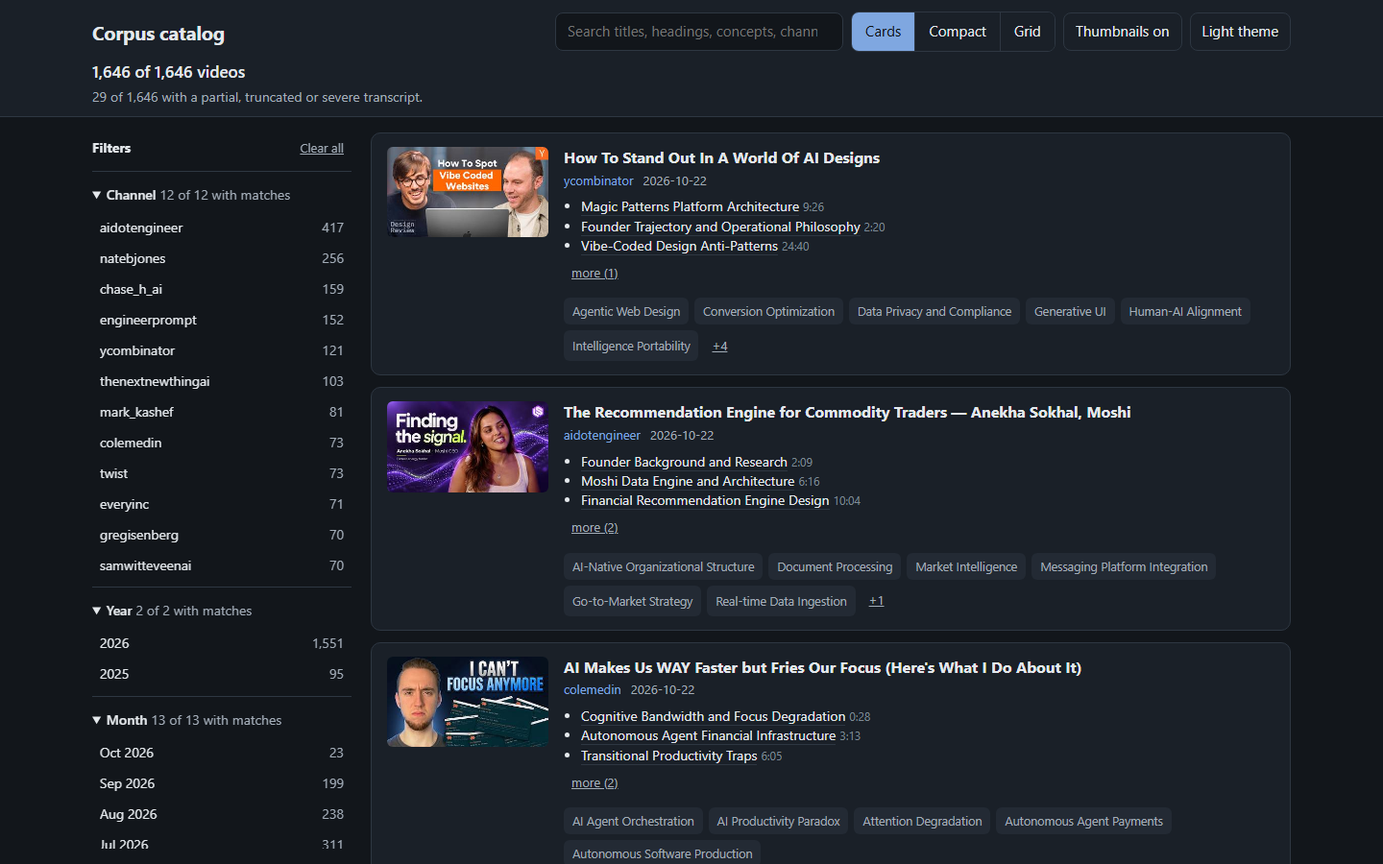
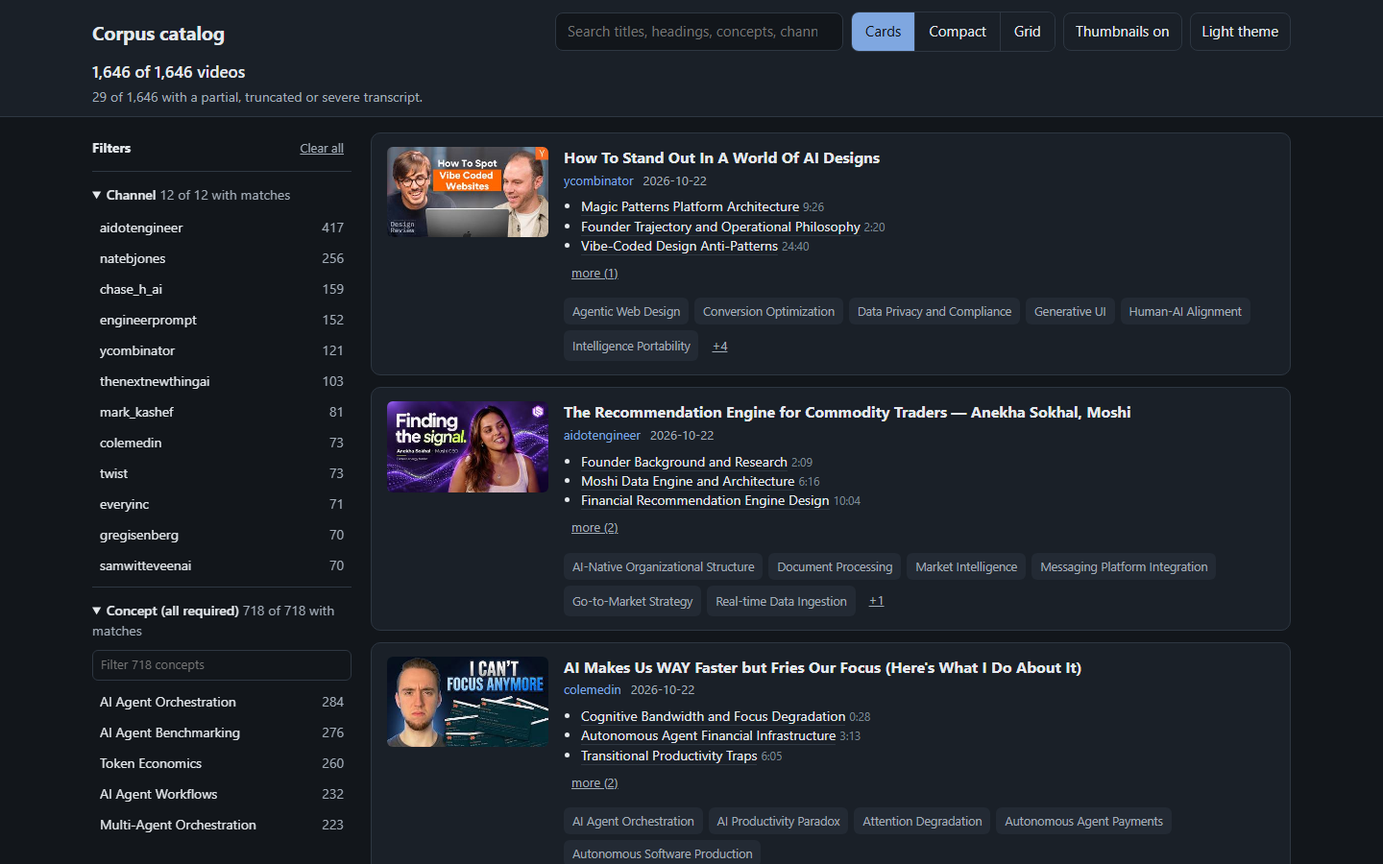
feat(atlas): concept facet in the catalog rail, plain transcript-quality labels (#267) (#268)
* feat(atlas): concept facet in the catalog rail, plain transcript-quality labels (#267)

The rail gains a Concept facet right after Channel: concepts by video
count with cross-filter counts, top 15 with "show all", a filter box for
the long tail (718 concepts in the public demo), and the existing rule
that every selected concept is required. Zero-count concepts and quality
values are hidden unless selected. Transcript quality is displayed in
plain words ("no transcript", "not assessed") while the data values stay
unchanged. The separate selected-concepts block is gone: the facet shows
selections pressed.

Browser smoke: a rail concept narrows the list, the filter box narrows the
facet and keeps focus, quality labels are plain and zero counts hidden.
Demo page re-rendered; suite 3,442 passed.

* docs(atlas): say where the catalog's deep-link timestamps come from (#267)

They are the mind map's own timestamps, written by Gemini while watching
the video, so they exist even for videos without a transcript.

---------

Changed region(s): [[0.0625, 0.6844, 0.25, 0.9956], [0.2188, 0.84, 0.25, 0.9644], [0.2188, 0.7778, 0.25, 0.8089]]

diff --git a/examples/catalog/catalog.html b/examples/catalog/catalog.html
@@ -79,6 +79,8 @@
   .fv.zero { opacity: 0.45; }
   .fv .name { overflow-wrap: anywhere; }
   .fv.special .name { font-style: italic; }
+  .facet-filter { width: 100%; min-height: 32px; margin: 2px 0 6px; padding: 4px 8px; border: 1px solid var(--line); border-radius: 6px; background: var(--ground); color: var(--ink); font: inherit; font-size: 13px; }
+  .facet-filter:focus { outline: 2px solid var(--accent); outline-offset: 1px; }
   .link-btn { border: 0; background: none; color: var(--muted); text-decoration: underline; cursor: pointer; padding: 6px 8px; min-height: 32px; font-size: 13px; }
   .active-chips { display: flex; flex-wrap: wrap; gap: 6px; padding: 4px 0 8px; }
   .achip { display: inline-flex; align-items: center; gap: 4px; padding: 2px 4px 2px 10px; border-radius: 999px; background: var(--accent-soft); box-shadow: inset 0 0 0 1px var(--accent); font-size: 13px; }
@@ -163,7 +165,7 @@
     .rail { position: fixed; top: 0; left: 0; bottom: 0; width: min(86vw, 340px); max-height: none; z-index: 40; background: var(--surface); padding: 16px; transform: translateX(-105%); transition: transform 0.18s ease; border-right: 1px solid var(--line); }
     .rail.open { transform: none; }
     .backdrop.open { display: block; position: fixed; inset: 0; background: rgba(0, 0, 0, 0.4); z-index: 30; }
-    .fv, .link-btn, .chip { min-height: 40px; }
+    .fv, .link-btn, .chip, .facet-filter { min-height: 40px; }
     .card.has-thumb { grid-template-columns: 112px minmax(0, 1fr); gap: 0 12px; }
     .thumb { width: 112px; grid-row: 1 / span 2; }
     .card.has-thumb > :not(.thumb):not(h3):not(.meta) { grid-column: 1 / -1; }
@@ -348,22 +350,28 @@
     return c;
   }
   function yesNo(v) { return v === "yes" ? "Yes" : "No"; }
+  // Display words for the transcript_quality values; the values themselves never change.
+  var QUALITY_LABELS = { none: "no transcript", unknown: "not assessed" };
+  function qualityLabel(q) { return QUALITY_LABELS[q] || q; }
 
   var D = {
     channel: makeDim("ch", "Channel", "one"),
     topic: makeDim("tp", "Topic", "any", function (v) { return v === UNTHREADED ? "Unthreaded" : v; }),
     year: makeDim("yr", "Year", "one", function (v) { return v || "No date"; }),
     month: makeDim("mo", "Month", "one", monthLabel),
-    quality: makeDim("ql", "Transcript quality", "one"),
+    quality: makeDim("ql", "Transcript quality", "one", qualityLabel),
     briefing: makeDim("br", "Already in a briefing", "one", yesNo),
     wiki: makeDim("wk", "Has wiki page", "one", yesNo),
-    concept: makeDim("cn", "Concept", "all", labelOf)
+    concept: makeDim("cn", "Concept (all required)", "all", labelOf)
   };
   var DIMS = [D.channel, D.topic, D.year, D.month, D.quality, D.briefing, D.wiki, D.concept];
   var hasTopics = rows.some(function (r) { return r.topics && r.topics.length; });
   var hasBriefings = rows.some(function (r) { return r.in_briefings; });
   var hasWiki = rows.some(function (r) { var w = r.wiki || {}; return w.creator || (w.concepts && w.concepts.length); });
-  var RAIL_DIMS = [D.channel].concat(hasTopics ? [D.topic] : [], [D.year, D.month, D.quality], hasBriefings ? [D.briefing] : [], hasWiki ? [D.wiki] : []);
+  var RAIL_DIMS = [D.channel].concat(hasTopics ? [D.topic] : [], [D.concept, D.year, D.month, D.quality], hasBriefings ? [D.briefing] : [], hasWiki ? [D.wiki] : []);
+  // Facets whose zero-count values are noise rather than a choice: hidden unless selected.
+  var HIDE_ZERO = [D.concept, D.quality];
+  var FILTERABLE = [D.concept];
 
   QUALITY.forEach(function (q) { codeOf(D.quality, q); });
   ["yes", "no"].forEach(function (v) { codeOf(D.briefing, v); codeOf(D.wiki, v); });
@@ -542,12 +550,13 @@
   }
 
   // ---------- rail ----------
-  var TOP = { ch: 15, tp: 15, mo: 12 };
+  var TOP = { ch: 15, tp: 15, cn: 15, mo: 12 };
+  var lastRes = null;
   function orderedCodes(d, counts) {
     var codes = d.values.map(function (_, c) { return c; });
     if (d === D.year || d === D.month) {
       codes.sort(function (a, b) { var va = d.values[a], vb = d.values[b]; if (!va) return 1; if (!vb) return -1; return va < vb ? 1 : -1; });
-    } else if (d === D.channel || d === D.topic) {
+    } else if (d === D.channel || d === D.topic || d === D.concept) {
       codes.sort(function (a, b) {
         if (d === D.topic) { if (a === unthreadedCode) return 1; if (b === unthreadedCode) return -1; }
         return counts[b] - counts[a] || (d.values[a] < d.values[b] ? -1 : 1);
@@ -556,21 +565,13 @@
     return codes;
   }
   function renderRail(res) {
+    lastRes = res;
     var host = document.getElementById("facets");
     clear(host);
-    if (D.concept.sel.size) {
-      var sec = el("div", { class: "facet" });
-      sec.appendChild(el("div", { class: "rail-head" })).appendChild(el("strong", null, "Concepts (all required)"));
-      var chips = sec.appendChild(el("div", { class: "active-chips" }));
-      D.concept.sel.forEach(function (c) {
-        var chip = chips.appendChild(el("span", { class: "achip" }, D.concept.display(D.concept.values[c])));
-        chip.appendChild(el("button", { type: "button", "data-remove-cn": c, "aria-label": "Remove concept filter " + D.concept.display(D.concept.values[c]) }, "×"));
-      });
-      host.appendChild(sec);
-    }
     RAIL_DIMS.forEach(function (d) {
       var counts = res.counts[DIMS.indexOf(d)];
       var codes = orderedCodes(d, counts);
+      if (HIDE_ZERO.indexOf(d) >= 0) codes = codes.filter(function (c) { return counts[c] > 0 || d.sel.has(c); });
       var nonZero = 0;
       codes.forEach(function (c) { if (counts[c] > 0) nonZero++; });
       var det = el("details", { class: "facet", "data-dim": d.key, open: d.open ? "" : null });
@@ -579,6 +580,14 @@
       if (d.sel.size) sub += ", " + d.sel.size + " selected";
       sum.appendChild(el("span", { class: "sub" }, sub));
       var limit = TOP[d.key];
+      var needle = (d.filter || "").trim().toLowerCase();
+      if (FILTERABLE.indexOf(d) >= 0) {
+        det.appendChild(el("input", { type: "search", class: "facet-filter", "data-filter": d.key, placeholder: "Filter " + fmt(codes.length) + " concepts", "aria-label": "Filter concepts", value: d.filter || "", autocomplete: "off" }));
+        if (needle) {
+          codes = codes.filter(function (c) { return d.sel.has(c) || String(d.display(d.values[c])).toLowerCase().indexOf(needle) >= 0; });
+          limit = 0;
+        }
+      }
       var ul = det.appendChild(el("ul"));
       var shown = 0;
       codes.forEach(function (c, idx) {
@@ -590,6 +599,7 @@
         b.appendChild(el("span", { class: "n" }, fmt(counts[c])));
         ul.appendChild(el("li")).appendChild(b);
       });
+      if (needle && !codes.length) ul.appendChild(el("li", { class: "sub" }, "No concept matches."));
       if (limit && codes.length > limit) {
         det.appendChild(el("button", { type: "button", class: "link-btn", "data-expand": d.key }, d.expanded ? "Show top " + limit : "Show all " + fmt(codes.length)));
       }
@@ -602,7 +612,7 @@
 
   // ---------- list ----------
   // "complete" is the normal state and stays silent; only the exceptions get a badge.
-  function qualityBadge(q) { return q === "complete" ? null : el("span", { class: "badge q-" + q, title: "Transcript quality" }, q); }
+  function qualityBadge(q) { return q === "complete" ? null : el("span", { class: "badge q-" + q, title: "Transcript quality" }, qualityLabel(q)); }
   function appendBadge(host, q) { var b = qualityBadge(q); if (b) host.appendChild(b); }
   function renderCard(i) {
     var r = rows[i];
@@ -857,6 +867,15 @@
   backdrop.addEventListener("click", function () { setDrawer(false); });
   document.addEventListener("keydown", function (ev) { if (ev.key === "Escape") setDrawer(false); });
 
+  rail.addEventListener("input", function (ev) {
+    var key = ev.target.getAttribute && ev.target.getAttribute("data-filter");
+    var d = key && dimByKey(key);
+    if (!d || !lastRes) return;
+    d.filter = ev.target.value;
+    renderRail(lastRes);
+    var box = rail.querySelector('[data-filter="' + key + '"]');
+    if (box) { box.focus(); box.setSelectionRange(box.value.length, box.value.length); }
+  });
   rail.addEventListener("toggle", function (ev) {
     var d = dimByKey(ev.target.getAttribute && ev.target.getAttribute("data-dim"));
     if (d) d.open = ev.target.open;

diff --git a/scripts/atlas_catalog_template.html b/scripts/atlas_catalog_template.html
@@ -79,6 +79,8 @@
   .fv.zero { opacity: 0.45; }
   .fv .name { overflow-wrap: anywhere; }
   .fv.special .name { font-style: italic; }
+  .facet-filter { width: 100%; min-height: 32px; margin: 2px 0 6px; padding: 4px 8px; border: 1px solid var(--line); border-radius: 6px; background: var(--ground); color: var(--ink); font: inherit; font-size: 13px; }
+  .facet-filter:focus { outline: 2px solid var(--accent); outline-offset: 1px; }
   .link-btn { border: 0; background: none; color: var(--muted); text-decoration: underline; cursor: pointer; padding: 6px 8px; min-height: 32px; font-size: 13px; }
   .active-chips { display: flex; flex-wrap: wrap; gap: 6px; padding: 4px 0 8px; }
   .achip { display: inline-flex; align-items: center; gap: 4px; padding: 2px 4px 2px 10px; border-radius: 999px; background: var(--accent-soft); box-shadow: inset 0 0 0 1px var(--accent); font-size: 13px; }
@@ -163,7 +165,7 @@
     .rail { position: fixed; top: 0; left: 0; bottom: 0; width: min(86vw, 340px); max-height: none; z-index: 40; background: var(--surface); padding: 16px; transform: translateX(-105%); transition: transform 0.18s ease; border-right: 1px solid var(--line); }
     .rail.open { transform: none; }
     .backdrop.open { display: block; position: fixed; inset: 0; background: rgba(0, 0, 0, 0.4); z-index: 30; }
-    .fv, .link-btn, .chip { min-height: 40px; }
+    .fv, .link-btn, .chip, .facet-filter { min-height: 40px; }
     .card.has-thumb { grid-template-columns: 112px minmax(0, 1fr); gap: 0 12px; }
     .thumb { width: 112px; grid-row: 1 / span 2; }
     .card.has-thumb > :not(.thumb):not(h3):not(.meta) { grid-column: 1 / -1; }
@@ -348,22 +350,28 @@
     return c;
   }
   function yesNo(v) { return v === "yes" ? "Yes" : "No"; }
+  // Display words for the transcript_quality values; the values themselves never change.
+  var QUALITY_LABELS = { none: "no transcript", unknown: "not assessed" };
+  function qualityLabel(q) { return QUALITY_LABELS[q] || q; }
 
   var D = {
     channel: makeDim("ch", "Channel", "one"),
     topic: makeDim("tp", "Topic", "any", function (v) { return v === UNTHREADED ? "Unthreaded" : v; }),
     year: makeDim("yr", "Year", "one", function (v) { return v || "No date"; }),
     month: makeDim("mo", "Month", "one", monthLabel),
-    quality: makeDim("ql", "Transcript quality", "one"),
+    quality: makeDim("ql", "Transcript quality", "one", qualityLabel),
     briefing: makeDim("br", "Already in a briefing", "one", yesNo),
     wiki: makeDim("wk", "Has wiki page", "one", yesNo),
-    concept: makeDim("cn", "Concept", "all", labelOf)
+    concept: makeDim("cn", "Concept (all required)", "all", labelOf)
   };
   var DIMS = [D.channel, D.topic, D.year, D.month, D.quality, D.briefing, D.wiki, D.concept];
   var hasTopics = rows.some(function (r) { return r.topics && r.topics.length; });
   var hasBriefings = rows.some(function (r) { return r.in_briefings; });
   var hasWiki = rows.some(function (r) { var w = r.wiki || {}; return w.creator || (w.concepts && w.concepts.length); });
-  var RAIL_DIMS = [D.channel].concat(hasTopics ? [D.topic] : [], [D.year, D.month, D.quality], hasBriefings ? [D.briefing] : [], hasWiki ? [D.wiki] : []);
+  var RAIL_DIMS = [D.channel].concat(hasTopics ? [D.topic] : [], [D.concept, D.year, D.month, D.quality], hasBriefings ? [D.briefing] : [], hasWiki ? [D.wiki] : []);
+  // Facets whose zero-count values are noise rather than a choice: hidden unless selected.
+  var HIDE_ZERO = [D.concept, D.quality];
+  var FILTERABLE = [D.concept];
 
   QUALITY.forEach(function (q) { codeOf(D.quality, q); });
   ["yes", "no"].forEach(function (v) { codeOf(D.briefing, v); codeOf(D.wiki, v); });
@@ -542,12 +550,13 @@
   }
 
   // ---------- rail ----------
-  var TOP = { ch: 15, tp: 15, mo: 12 };
+  var TOP = { ch: 15, tp: 15, cn: 15, mo: 12 };
+  var lastRes = null;
   function orderedCodes(d, counts) {
     var codes = d.values.map(function (_, c) { return c; });
     if (d === D.year || d === D.month) {
       codes.sort(function (a, b) { var va = d.values[a], vb = d.values[b]; if (!va) return 1; if (!vb) return -1; return va < vb ? 1 : -1; });
-    } else if (d === D.channel || d === D.topic) {
+    } else if (d === D.channel || d === D.topic || d === D.concept) {
       codes.sort(function (a, b) {
         if (d === D.topic) { if (a === unthreadedCode) return 1; if (b === unthreadedCode) return -1; }
         return counts[b] - counts[a] || (d.values[a] < d.values[b] ? -1 : 1);
@@ -556,21 +565,13 @@
     return codes;
   }
   function renderRail(res) {
+    lastRes = res;
     var host = document.getElementById("facets");
     clear(host);
-    if (D.concept.sel.size) {
-      var sec = el("div", { class: "facet" });
-      sec.appendChild(el("div", { class: "rail-head" })).appendChild(el("strong", null, "Concepts (all required)"));
-      var chips = sec.appendChild(el("div", { class: "active-chips" }));
-      D.concept.sel.forEach(function (c) {
-        var chip = chips.appendChild(el("span", { class: "achip" }, D.concept.display(D.concept.values[c])));
-        chip.appendChild(el("button", { type: "button", "data-remove-cn": c, "aria-label": "Remove concept filter " + D.concept.display(D.concept.values[c]) }, "×"));
-      });
-      host.appendChild(sec);
-    }
     RAIL_DIMS.forEach(function (d) {
       var counts = res.counts[DIMS.indexOf(d)];
       var codes = orderedCodes(d, counts);
+      if (HIDE_ZERO.indexOf(d) >= 0) codes = codes.filter(function (c) { return counts[c] > 0 || d.sel.has(c); });
       var nonZero = 0;
       codes.forEach(function (c) { if (counts[c] > 0) nonZero++; });
       var det = el("details", { class: "facet", "data-dim": d.key, open: d.open ? "" : null });
@@ -579,6 +580,14 @@
       if (d.sel.size) sub += ", " + d.sel.size + " selected";
       sum.appendChild(el("span", { class: "sub" }, sub));
       var limit = TOP[d.key];
+      var needle = (d.filter || "").trim().toLowerCase();
+      if (FILTERABLE.indexOf(d) >= 0) {
+        det.appendChild(el("input", { type: "search", class: "facet-filter", "data-filter": d.key, placeholder: "Filter " + fmt(codes.length) + " concepts", "aria-label": "Filter concepts", value: d.filter || "", autocomplete: "off" }));
+        if (needle) {
+          codes = codes.filter(function (c) { return d.sel.has(c) || String(d.display(d.values[c])).toLowerCase().indexOf(needle) >= 0; });
+          limit = 0;
+        }
+      }
       var ul = det.appendChild(el("ul"));
       var shown = 0;
       codes.forEach(function (c, idx) {
@@ -590,6 +599,7 @@
         b.appendChild(el("span", { class: "n" }, fmt(counts[c])));
         ul.appendChild(el("li")).appendChild(b);
       });
+      if (needle && !codes.length) ul.appendChild(el("li", { class: "sub" }, "No concept matches."));
       if (limit && codes.length > limit) {
         det.appendChild(el("button", { type: "button", class: "link-btn", "data-expand": d.key }, d.expanded ? "Show top " + limit : "Show all " + fmt(codes.length)));
       }
@@ -602,7 +612,7 @@
 
   // ---------- list ----------
   // "complete" is the normal state and stays silent; only the exceptions get a badge.
-  function qualityBadge(q) { return q === "complete" ? null : el("span", { class: "badge q-" + q, title: "Transcript quality" }, q); }
+  function qualityBadge(q) { return q === "complete" ? null : el("span", { class: "badge q-" + q, title: "Transcript quality" }, qualityLabel(q)); }
   function appendBadge(host, q) { var b = qualityBadge(q); if (b) host.appendChild(b); }
   function renderCard(i) {
     var r = rows[i];
@@ -857,6 +867,15 @@
   backdrop.addEventListener("click", function () { setDrawer(false); });
   document.addEventListener("keydown", function (ev) { if (ev.key === "Escape") setDrawer(false); });
 
+  rail.addEventListener("input", function (ev) {
+    var key = ev.target.getAttribute && ev.target.getAttribute("data-filter");
+    var d = key && dimByKey(key);
+    if (!d || !lastRes) return;
+    d.filter = ev.target.value;
+    renderRail(lastRes);
+    var box = rail.querySelector('[data-filter="' + key + '"]');
+    if (box) { box.focus(); box.setSelectionRange(box.value.length, box.value.length); }
+  });
   rail.addEventListener("toggle", function (ev) {
     var d = dimByKey(ev.target.getAttribute && ev.target.getAttribute("data-dim"));
     if (d) d.open = ev.target.open;

diff --git a/tests/test_atlas_render_browser.py b/tests/test_atlas_render_browser.py
@@ -37,14 +37,14 @@ def smoke_atlas() -> dict:
                 "published": "2026-12-31" if i == 0 else f"2026-{(i % 12) + 1:02d}-15",
                 "duration_seconds": 600 + i,
                 "url": f"https://www.youtube.com/watch?v={vid}",
-                "transcript_quality": "complete",
+                "transcript_quality": {1: "unknown", 2: "none"}.get(i, "complete"),
                 "transcript_flag_count": 0,
                 "synopsis": ["Same label", "Same label", "Other"],
                 "deep_links": [
                     {"label": "Same label", "seconds": 10, "url": f"https://www.youtube.com/watch?v={vid}&t=10"},
                     {"label": "Same label", "seconds": 20, "url": f"https://www.youtube.com/watch?v={vid}&t=20"},
                 ],
-                "concept_ids": ["dom.c1"],
+                "concept_ids": ["dom.c1", "dom.c2"] if i % 2 == 0 else ["dom.c1"],
                 "topics": ["sales"] if i % 3 == 0 else [],
                 "in_briefings": False,
                 "briefing_count": 0,
@@ -64,7 +64,7 @@ def smoke_atlas() -> dict:
             "topics": {"sales": ROWS // 3},
             "unthreaded": 0,
         },
-        "concepts": {"dom.c1": "Concept one"},
+        "concepts": {"dom.c1": "Concept one", "dom.c2": "Concept two"},
         "rows": rows,
     }
 
@@ -118,10 +118,10 @@ def test_a_facet_click_in_compact_keeps_the_compact_page_size(page):
     page.click("#view-compact")
     page.wait_for_selector("#toc tbody tr")
     assert page.evaluate("document.querySelectorAll('#toc tbody tr').length") == ROWS
-    page.click("#facets button.fv[data-dim='ql']:has-text('complete')")  # every fixture row is complete
+    page.click("#facets button.fv[data-dim='cn']:has-text('Concept one')")  # every fixture row carries it
     page.wait_for_timeout(100)
     assert page.evaluate("document.querySelectorAll('#toc tbody tr').length") == ROWS
-    assert "n=" not in page.evaluate("location.hash")
+    assert page.evaluate("new URLSearchParams(location.hash.slice(1)).get('n')") is None
 
 
 def test_facets_no_row_can_answer_are_hidden_and_the_finding_says_only_what_it_can(page):
@@ -144,3 +144,28 @@ def test_the_hash_restores_a_view_and_a_pending_debounce_cannot_undo_it(page, pa
     assert page.evaluate("location.hash") == "#ch=beta"
     assert page.input_value("#q") == ""
     assert "channel beta" in page.text_content("#active-title")
+
+
+def test_a_concept_in_the_rail_narrows_the_list(page):
+    names = page.eval_on_selector_all("#facets button.fv[data-dim='cn'] .name", "els => els.map(e => e.textContent)")
+    assert names == ["Concept one", "Concept two"]
+    page.click("#facets button.fv[data-dim='cn']:has-text('Concept two')")
+    page.wait_for_timeout(100)
+    assert page.text_content("#active-title").startswith(f"{ROWS // 2} of {ROWS} videos")
+    assert "cn=dom.c2" in page.evaluate("location.hash")
+
+
+def test_the_concept_filter_box_narrows_the_facet_and_keeps_focus(page):
+    page.fill("#facets input[data-filter='cn']", "two")
+    page.wait_for_timeout(100)
+    names = page.eval_on_selector_all("#facets button.fv[data-dim='cn'] .name", "els => els.map(e => e.textContent)")
+    assert names == ["Concept two"]
+    assert page.evaluate("document.activeElement.getAttribute('data-filter')") == "cn"
+    assert page.input_value("#facets input[data-filter='cn']") == "two"
+
+
+def test_quality_facet_uses_plain_labels_and_hides_zero_counts(page):
+    names = page.eval_on_selector_all("#facets button.fv[data-dim='ql'] .name", "els => els.map(e => e.textContent)")
+    assert names == ["complete", "not assessed", "no transcript"]
+    badges = page.eval_on_selector_all("#cards .badge", "els => els.map(e => e.textContent)")
+    assert set(badges) <= {"not assessed", "no transcript"}

diff --git a/.claude/rules/intelligence-layer.md b/.claude/rules/intelligence-layer.md
@@ -51,7 +51,7 @@ Moved verbatim out of the root `CLAUDE.md` so these guardrails load when you tou
 
 **Standalone utility:** `scripts/atlas_build.py` - the corpus catalog generator (issue #260), plus the shared reader module `scripts/corpus_walk.py` it stands on. Writes ONE derived file, `<output_dir>/_atlas/atlas.json`: one row per `video_id` with facets, a headings-only synopsis, labeled deep links, transcript quality and the already-seen signals (briefing membership, wiki page keys). Not the Creator Atlas wiki (`wiki_atlas.py`, `_wiki/`): the two share a word and nothing else, which is why the skill routes this one as "catalog". User-facing page: `docs/atlas.md`; row contract: `schemas/atlas.schema.json`. Ten invariants reviewers must protect: (1) **no transcript file is ever opened** - transcript presence is a directory-listing fact from `corpus_walk.channel_sibling_index`, and transcript text never reaches any output (`TestSynopsisAndTranscript::test_transcript_file_is_never_opened` spies on `open`); (2) **no fabricated URL or timestamp** - the row `url` is the stored `video_url` when it is a well-formed `https` URL and JSON `null` otherwise, never a URL built from an id, and every deep link goes through `timestamp_utils.youtube_deep_link`; a branch with no qualifying leaf gets no link rather than a guessed second; (3) **one walker** [core: one-definition]: `corpus_walk.iter_meta_records` is the only meta walk behind `briefings --unseen`, `topics-build` (both through `video_intel.collect_corpus_videos`, now a projection over it) and the catalog, with the two-artifact winner rule (more mindmap-plus-concepts siblings wins) and a tie kept by the FIRST record in sorted (channel, filename) order; a second walker, or a winner rule that counts transcripts or sidecars, changes which title briefings show; (4) **parsing is shared, deep-link SELECTION is per surface, on purpose** - all three surfaces parse through `wiki_concepts.parse_mindmap_timestamps`, but briefings select with `video_intel.extract_mindmap_links`, concept pages with `wiki_concepts.find_timestamp`, and the catalog with its own R7 rule (`atlas_build.deep_links`: at most three, one per branch, distinct seconds, past-duration leaves skipped); they answer different questions, so a diff that "unifies" them is a behavior change on two surfaces, not a cleanup; (5) **`timestamp_utils.youtube_deep_link`'s rule (scheme `https`, a host in `YOUTUBE_DEEP_LINK_HOSTS`, AND a video id of exactly eleven `[A-Za-z0-9_-]` characters) is deliberately narrower than `video_intel._YOUTUBE_HOSTS`**, which is a channel-shape check on config URLs (host membership only, no scheme or id check); the two host sets happen to hold the same names today, and they must still not be merged or made to share one helper, because the loose check would put a `&t=` on a recovered non-YouTube id filed under a youtube.com URL (a Goldcast-style `goldcast-ab12cd34`); (6) **`generated_at` is never the wall clock** - it is `--generated-at` verbatim, else the newest parseable `processed` stamp in UTC, else the newest `published` date, else null, so an unchanged corpus rebuilds byte-identical and the Drive mount sees no sync diff (`TestDeterminism::test_module_never_reads_the_wall_clock`); (7) **single-file ownership through the `generator` header**, fail-closed like `wiki_concepts.write_pages`: an existing `atlas.json` is replaced only when its `generator` is exactly `atlas_build.py`, and an unreadable file, a non-object or a missing key is refused before the walk (the ownership read uses `MAX_ATLAS_BYTES`, never the 4 MB per-meta default, which refused the real 6.1 MB catalog); the write goes through `atlas.json.<pid>.tmp` and one `os.replace`; the start-of-run sweep removes only a matching temp older than `STALE_TEMP_MIN_AGE_SECONDS` (a younger one may be a concurrent build's live write) and never raises on a listing or unlink failure, and `_file_age_seconds` is the module's one clock read, which never reaches the output; a channel folder the walker cannot list (`WalkResult.unlistable_channels`) stops the write with exit 2 and a counts-only `unlistable=N` line, because its metas are in no counter and the partition would still balance with the channel missing (`TestUnlistableChannel`); (8) **`_atlas/` never holds a file ending `.meta.json`, `.concepts.json`, `.mindmap.md` or `.transcript.md`** - the underscore-prefix rule keeps `collect_corpus_videos` out of it, but `build_taxonomy`'s `rglob("*.concepts.json")` and the `glob("*/*.meta.json")` call sites in `video_intel` stay safe only because of this (`TestCli::test_output_file_set_is_only_atlas_json`); (9) **the catalog is complete by design** - the owner is the sole user, so every record the walker finds is a row, with no filtering by audience, access or source type; a copy of `_atlas/` is a copy of everything, and the sharing layer (policy, projection, export folder) is issue #262, not a flag to add here; (10) **reading never writes** [core: #124 read-guard]: the reader-side `corpus_walk.read_json_best_effort` catches `(ValueError, OSError)`, requires a JSON object, and skips and counts an unusable file; it NEVER quarantines, which is the writer-side `_read_meta_best_effort`'s job and must stay in `video_intel` (`TestReadingNeverWrites::test_corpus_tree_is_byte_identical_after_build`). Sibling discovery is one directory listing per channel folder matched by literal prefix, never a rebuilt prefix and never a glob [core: writer's-path]. `corpus_walk.py` is stdlib-only at import and `video_intel` re-exports every moved name as the same object; PyYAML loads inside `parse_front_matter` only, never on import. Guard tests drive the real `build_rows` or `main` over a synthetic fixture tree, never a stub that agrees with its own assertion, and the summary-line partition `metas == rows + duplicates + skipped + no_id` is asserted on the caller's stdout (`TestCli::test_partition_holds_with_duplicates_and_no_id`) [core: real-caller]; a new guard is falsified before it ships. One generator, not a framework (#95 guardrail); no Gemini, no network. Test contract: `tests/test_atlas_build.py`, `tests/test_corpus_walk.py` (`TestMovedNamesAreOneObject`, `TestIterMetaRecords`, `TestCollectCorpusVideosIsAProjection`), `tests/test_timestamp_utils.py::TestStandaloneScriptImportIsolation`.
 
-**Standalone utility:** `scripts/atlas_render.py` - the catalog page renderer (issue #261), the one consumer of `_atlas/atlas.json` that ships with the repo. Reads the atlas and the template beside it (`scripts/atlas_catalog_template.html`), never the corpus, and writes ONE file, `catalog.html` next to the atlas (or `--out`): three views over one cross-filtered set (Cards, Compact, Grid), a facet rail, prefix search, a bookmarkable URL hash, light and dark. The page is private like the atlas it embeds. Six invariants reviewers must protect: (1) **self-contained** - the page loads no script, style or font from the network, and the template keeps exactly ONE `https://` string outside the data block, the YouTube thumbnail host; thumbnails are the one deliberate outbound fetch, built in the page from each row's own stored watch URL (never from `video_id`), lazy, `referrerpolicy="no-referrer"`, and switchable off (`TestSelfContained`); (2) **the data block is unicode-escaped** - every `<`, `>` and `&` in the embedded JSON becomes `\u003c`, `\u003e`, `\u0026`, not just `</`, because a title holding `<!--` plus `<script` would otherwise put the HTML tokenizer into the double-escaped script state and swallow the page's real closing tag (the `lead_lag_viz.render_html` rule); and corpus text reaches the DOM only through `textContent` and `setAttribute`, never `innerHTML` (`TestEscaping`); (3) **the template sentinel appears exactly once and the data is joined by splitting on it**, never `str.replace` on the output, so corpus text is never re-scanned for the sentinel; (4) **ownership by marker, fail-closed** like `atlas_build.check_ownership` - an existing output is replaced only when its head carries `<meta name="generator" content="atlas_render.py">`; a hand-written page, an unreadable file or any other generator's page is refused with exit 2 and left byte-identical, and the write goes through `catalog.html.<pid>.tmp` plus one `os.replace` (`TestOwnership`); (5) **the renderer never fabricates a link** - deep links, URLs and timestamps come from the atlas rows as written by `atlas_build` (which already routes them through `timestamp_utils.youtube_deep_link`), and the page renders a non-`https` URL as plain text; (6) **input is checked before any write** - the file must be an `atlas_build.py` atlas at `schema_version` 1 with a rows list, else exit 2 and nothing written (`TestInputGuards`); a failed write (a read-only folder, a refused `os.replace`) reports the same way, never as a traceback, and the temp never survives (`TestOwnership`); (7) **the page script has an executable guard, not only a text one** - `node --check` over the inline script (`TestPageScript`) and a headless-Chromium smoke over a synthetic atlas (`tests/test_atlas_render_browser.py`: hostile title lands as text, a facet click in Compact keeps the Compact page size, two headings with one cleaned label keep their own deep-link seconds, the hash restores a view), each skipped when its tool is absent, because the pytest text checks alone let a JavaScript syntax error ship green; (8) **one page-size rule** - every reset of `state.n` goes through `pageSize()`, so a facet click in Compact never collapses the table to the Cards page size; a pending search debounce is cancelled by `fromLocation` and by Clear all, so a stale timer cannot re-commit a query after back/forward; deep links are consumed in document order with a cursor, never through a label-keyed map; and the template's transcript-quality list is pinned to the schema enum (`TestVocabulary`). Rendering is byte-identical for the same atlas and template (`TestDeterminism`). Stdlib-only at import, in the #152 isolation list; the script-safe escape chain is a deliberate text copy of `lead_lag_viz`'s (that script sits on the report stack), pinned by `TestEscapeChainParity`. Test contract: `tests/test_atlas_render.py`, `tests/test_atlas_render_browser.py`.
+**Standalone utility:** `scripts/atlas_render.py` - the catalog page renderer (issue #261), the one consumer of `_atlas/atlas.json` that ships with the repo. Reads the atlas and the template beside it (`scripts/atlas_catalog_template.html`), never the corpus, and writes ONE file, `catalog.html` next to the atlas (or `--out`): three views over one cross-filtered set (Cards, Compact, Grid), a facet rail, prefix search, a bookmarkable URL hash, light and dark. The page is private like the atlas it embeds. Six invariants reviewers must protect: (1) **self-contained** - the page loads no script, style or font from the network, and the template keeps exactly ONE `https://` string outside the data block, the YouTube thumbnail host; thumbnails are the one deliberate outbound fetch, built in the page from each row's own stored watch URL (never from `video_id`), lazy, `referrerpolicy="no-referrer"`, and switchable off (`TestSelfContained`); (2) **the data block is unicode-escaped** - every `<`, `>` and `&` in the embedded JSON becomes `\u003c`, `\u003e`, `\u0026`, not just `</`, because a title holding `<!--` plus `<script` would otherwise put the HTML tokenizer into the double-escaped script state and swallow the page's real closing tag (the `lead_lag_viz.render_html` rule); and corpus text reaches the DOM only through `textContent` and `setAttribute`, never `innerHTML` (`TestEscaping`); (3) **the template sentinel appears exactly once and the data is joined by splitting on it**, never `str.replace` on the output, so corpus text is never re-scanned for the sentinel; (4) **ownership by marker, fail-closed** like `atlas_build.check_ownership` - an existing output is replaced only when its head carries `<meta name="generator" content="atlas_render.py">`; a hand-written page, an unreadable file or any other generator's page is refused with exit 2 and left byte-identical, and the write goes through `catalog.html.<pid>.tmp` plus one `os.replace` (`TestOwnership`); (5) **the renderer never fabricates a link** - deep links, URLs and timestamps come from the atlas rows as written by `atlas_build` (which already routes them through `timestamp_utils.youtube_deep_link`), and the page renders a non-`https` URL as plain text; (6) **input is checked before any write** - the file must be an `atlas_build.py` atlas at `schema_version` 1 with a rows list, else exit 2 and nothing written (`TestInputGuards`); a failed write (a read-only folder, a refused `os.replace`) reports the same way, never as a traceback, and the temp never survives (`TestOwnership`); (7) **the page script has an executable guard, not only a text one** - `node --check` over the inline script (`TestPageScript`) and a headless-Chromium smoke over a synthetic atlas (`tests/test_atlas_render_browser.py`: hostile title lands as text, a facet click in Compact keeps the Compact page size, two headings with one cleaned label keep their own deep-link seconds, the hash restores a view), each skipped when its tool is absent, because the pytest text checks alone let a JavaScript syntax error ship green; (8) **one page-size rule** - every reset of `state.n` goes through `pageSize()`, so a facet click in Compact never collapses the table to the Cards page size; a pending search debounce is cancelled by `fromLocation` and by Clear all, so a stale timer cannot re-commit a query after back/forward; deep links are consumed in document order with a cursor, never through a label-keyed map; and the template's transcript-quality list is pinned to the schema enum (`TestVocabulary`). The rail carries a Concept facet (every selected concept required, top 15 with a filter box, zero-count values hidden like the quality facet's); transcript-quality values are DISPLAYED as plain words (`none` as "no transcript", `unknown` as "not assessed") while the data values never change. Rendering is byte-identical for the same atlas and template (`TestDeterminism`). Stdlib-only at import, in the #152 isolation list; the script-safe escape chain is a deliberate text copy of `lead_lag_viz`'s (that script sits on the report stack), pinned by `TestEscapeChainParity`. Test contract: `tests/test_atlas_render.py`, `tests/test_atlas_render_browser.py`.
 
 **Standalone utility:** `scripts/atlas_export.py` - the public-subset exporter (issue #262), the only thing that may turn the private catalog into a copy that leaves the machine. Reads the private `atlas.json` and a YAML policy, writes `<out>/atlas.json` (`generator: atlas_export.py`) plus `catalog.html` through `atlas_render`, into `_atlas-export/` by default. Eight invariants reviewers must protect: (1) **default deny, four times** - a row survives only when its channel is in the policy's explicit allowlist, its date is on or after `since`, its `url` equals the canonical `https://www.youtube.com/watch?v=<its own id>` (other platforms never qualify), its id is not in `exclude_video_ids`, AND the YouTube Data API reports it `public` (`fetch_privacy_status`, `videos.list part=status` in batches of 50; an unlisted video, a deleted one, and a local ingest filed under an id-shaped id are all absent from the API's answer or not `public`, and are dropped and named on stderr); a kept row is projected onto `PUBLIC_ROW_KEYS` (an ALLOWLIST of fields, never a drop list, so a field added to the private row later is absent from the public one by construction); the concept map and channel counts are rebuilt from the kept rows and `topics` is always empty; the export header never carries the private corpus size. **The visibility check is the one that bit**: the first real export committed 27 unlisted videos behind canonical URLs, found by the security reviewer measuring every committed id against the API, so a diff that makes the check optional by default, or silently skips it when the key is missing, reopens exactly that; `--no-verify-public` is the explicit, warned opt-out and a missing `YOUTUBE_API_KEY` is a refusal; (1b) **a policy channel with no exportable video is a refusal** (`unmatched_channels`), so an allowlist typo cannot export silently; (2) **a deep link survives only as the row's own canonical URL plus `&t=<seconds>`** (a link to any other video is dropped); (3) **the policy is refused, never defaulted** - unknown keys, duplicate keys, non-string keys, a non-list or empty `channels`, a malformed `since`, a non-id in `exclude_video_ids`, each exits 2 with nothing written; the loader is a `yaml.SafeLoader` subclass whose only addition is those refusals; (4) **`--deny-terms` scans the serialized subset BEFORE any write** and aborts on a hit (the owner's private term list; a public title can trip it, and the remedy is `exclude_video_ids` or a demo copy of the list, decided by the owner, never by the script); (5) **the private folder is never the destination, and nothing another tool wrote is ever removed** - `--out` resolving to the atlas's own folder is refused, an `atlas.json` not written by `atlas_export.py` or a `catalog.html` without the renderer's marker in `--out` is refused BEFORE any write (through `atlas_render.check_ownership`, one definition), and a failed render removes only what this run wrote (the page is unlinked only when it did not exist beforehand; the first cut deleted a hand-written page the renderer had just refused, caught by four reviewers); (6) **the input must be the private atlas** (`generator: atlas_build.py`); re-exporting an export is refused; (7) **byte-stable** for the same atlas and policy, with the policy's sha256 prefix, channel list and date floor recorded in the `export` header. The guard tests are canary-based: the synthetic private atlas carries a canary string in EVERY field of every denied row (title, headings, aliases, topics, wiki keys, concept labels, the other folder of a duplicate), and `TestCanaries` asserts no canary byte reaches either output file [core: real-caller]. `examples/catalog/` holds one real exported bundle plus the policy that produced it; it is regenerated by the same command, never edited by hand, and `tests/test_catalog_demo.py` makes that mechanical: every committed row obeys the committed policy and `PUBLIC_ROW_KEYS`, the side tables match the rows, the page re-renders byte-identical from the JSON beside it, and (when the owner's private term list is on the machine) no term appears in any committed byte. An excluded id in that committed policy is itself public. `atlas_render.load_atlas` accepts exactly `ATLAS_GENERATORS` (`atlas_build.py`, `atlas_export.py`), nothing else, and the page ignores a URL hash that names a facet the rail does not show. Stdlib-only at import (PyYAML inside `load_policy`, `urllib` inside `fetch_privacy_status`), in the #152 isolation list. Test contract: `tests/test_atlas_export.py` (the status request is the one stubbed boundary), `tests/test_catalog_demo.py`.
 

diff --git a/docs/atlas.md b/docs/atlas.md
@@ -42,10 +42,10 @@ This writes `<output_dir>/_atlas/catalog.html`, one self-contained file that ope
 
 What the page gives you:
 
-- **Cards**: thumbnail, title, channel (click it to filter), date, length; the mind map's branch headings double as the deep links, with the second they jump to; six concept chips (a chip narrows the set); an "Already seen" line when the video is in a briefing or has a wiki page.
+- **Cards**: thumbnail, title, channel (click it to filter), date, length; the mind map's branch headings double as the deep links, with the second they jump to (the timestamps come from the mind map Gemini wrote while watching the video, not from a transcript, so a video without a transcript still has them); six concept chips (a chip narrows the set); an "Already seen" line when the video is in a briefing or has a wiki page.
 - **Compact**: a dated table of contents, newest first, 200 rows a page.
 - **Grid**: channel by month, last 24 months by default with a link to all months; darker means more videos; a cell lists exactly those videos.
-- A filter rail (channel, topic, year, month, transcript quality, briefing and wiki membership) whose counts update against every other filter; search where every word must match somewhere in title, headings, concepts or channel, with title hits first; a URL hash that carries the whole view, so a bookmark reopens it; a dark theme by default and a light one behind the button.
+- A filter rail (channel, topic, concept with a filter box, year, month, transcript quality, briefing and wiki membership) whose counts update against every other filter; search where every word must match somewhere in title, headings, concepts or channel, with title hits first; a URL hash that carries the whole view, so a bookmark reopens it; a dark theme by default and a light one behind the button.
 
 Rebuild the page after every atlas rebuild. It refuses to overwrite a `catalog.html` it did not write itself (no `atlas_render.py` generator marker in the file), the same rule the atlas build applies to `atlas.json`.
 

diff --git a/README.md b/README.md
@@ -187,7 +187,7 @@ Scanning and search answer questions you already know to ask. The catalog is the
 
 ![Cards view: thumbnail, mind-map headings that double as timestamped links, concept chips](docs/images/catalog-cards.png)
 
-Three views over one filtered set. **Cards** show the thumbnail, the mind-map's branch headings (each one a link that opens the video at that second) and the concepts the video touches. **Compact** is a dated table of contents. **Grid** is channel by month, darker where more videos landed; click a cell to list exactly those.
+Three views over one filtered set. **Cards** show the thumbnail, the mind-map's branch headings (each one a link that opens the video at that second; Gemini wrote those timestamps while watching the video, so they work even where no transcript exists) and the concepts the video touches. **Compact** is a dated table of contents. **Grid** is channel by month, darker where more videos landed; click a cell to list exactly those.
 
 ![Grid view: channel by month, darker means more videos](docs/images/catalog-grid.png)
 
